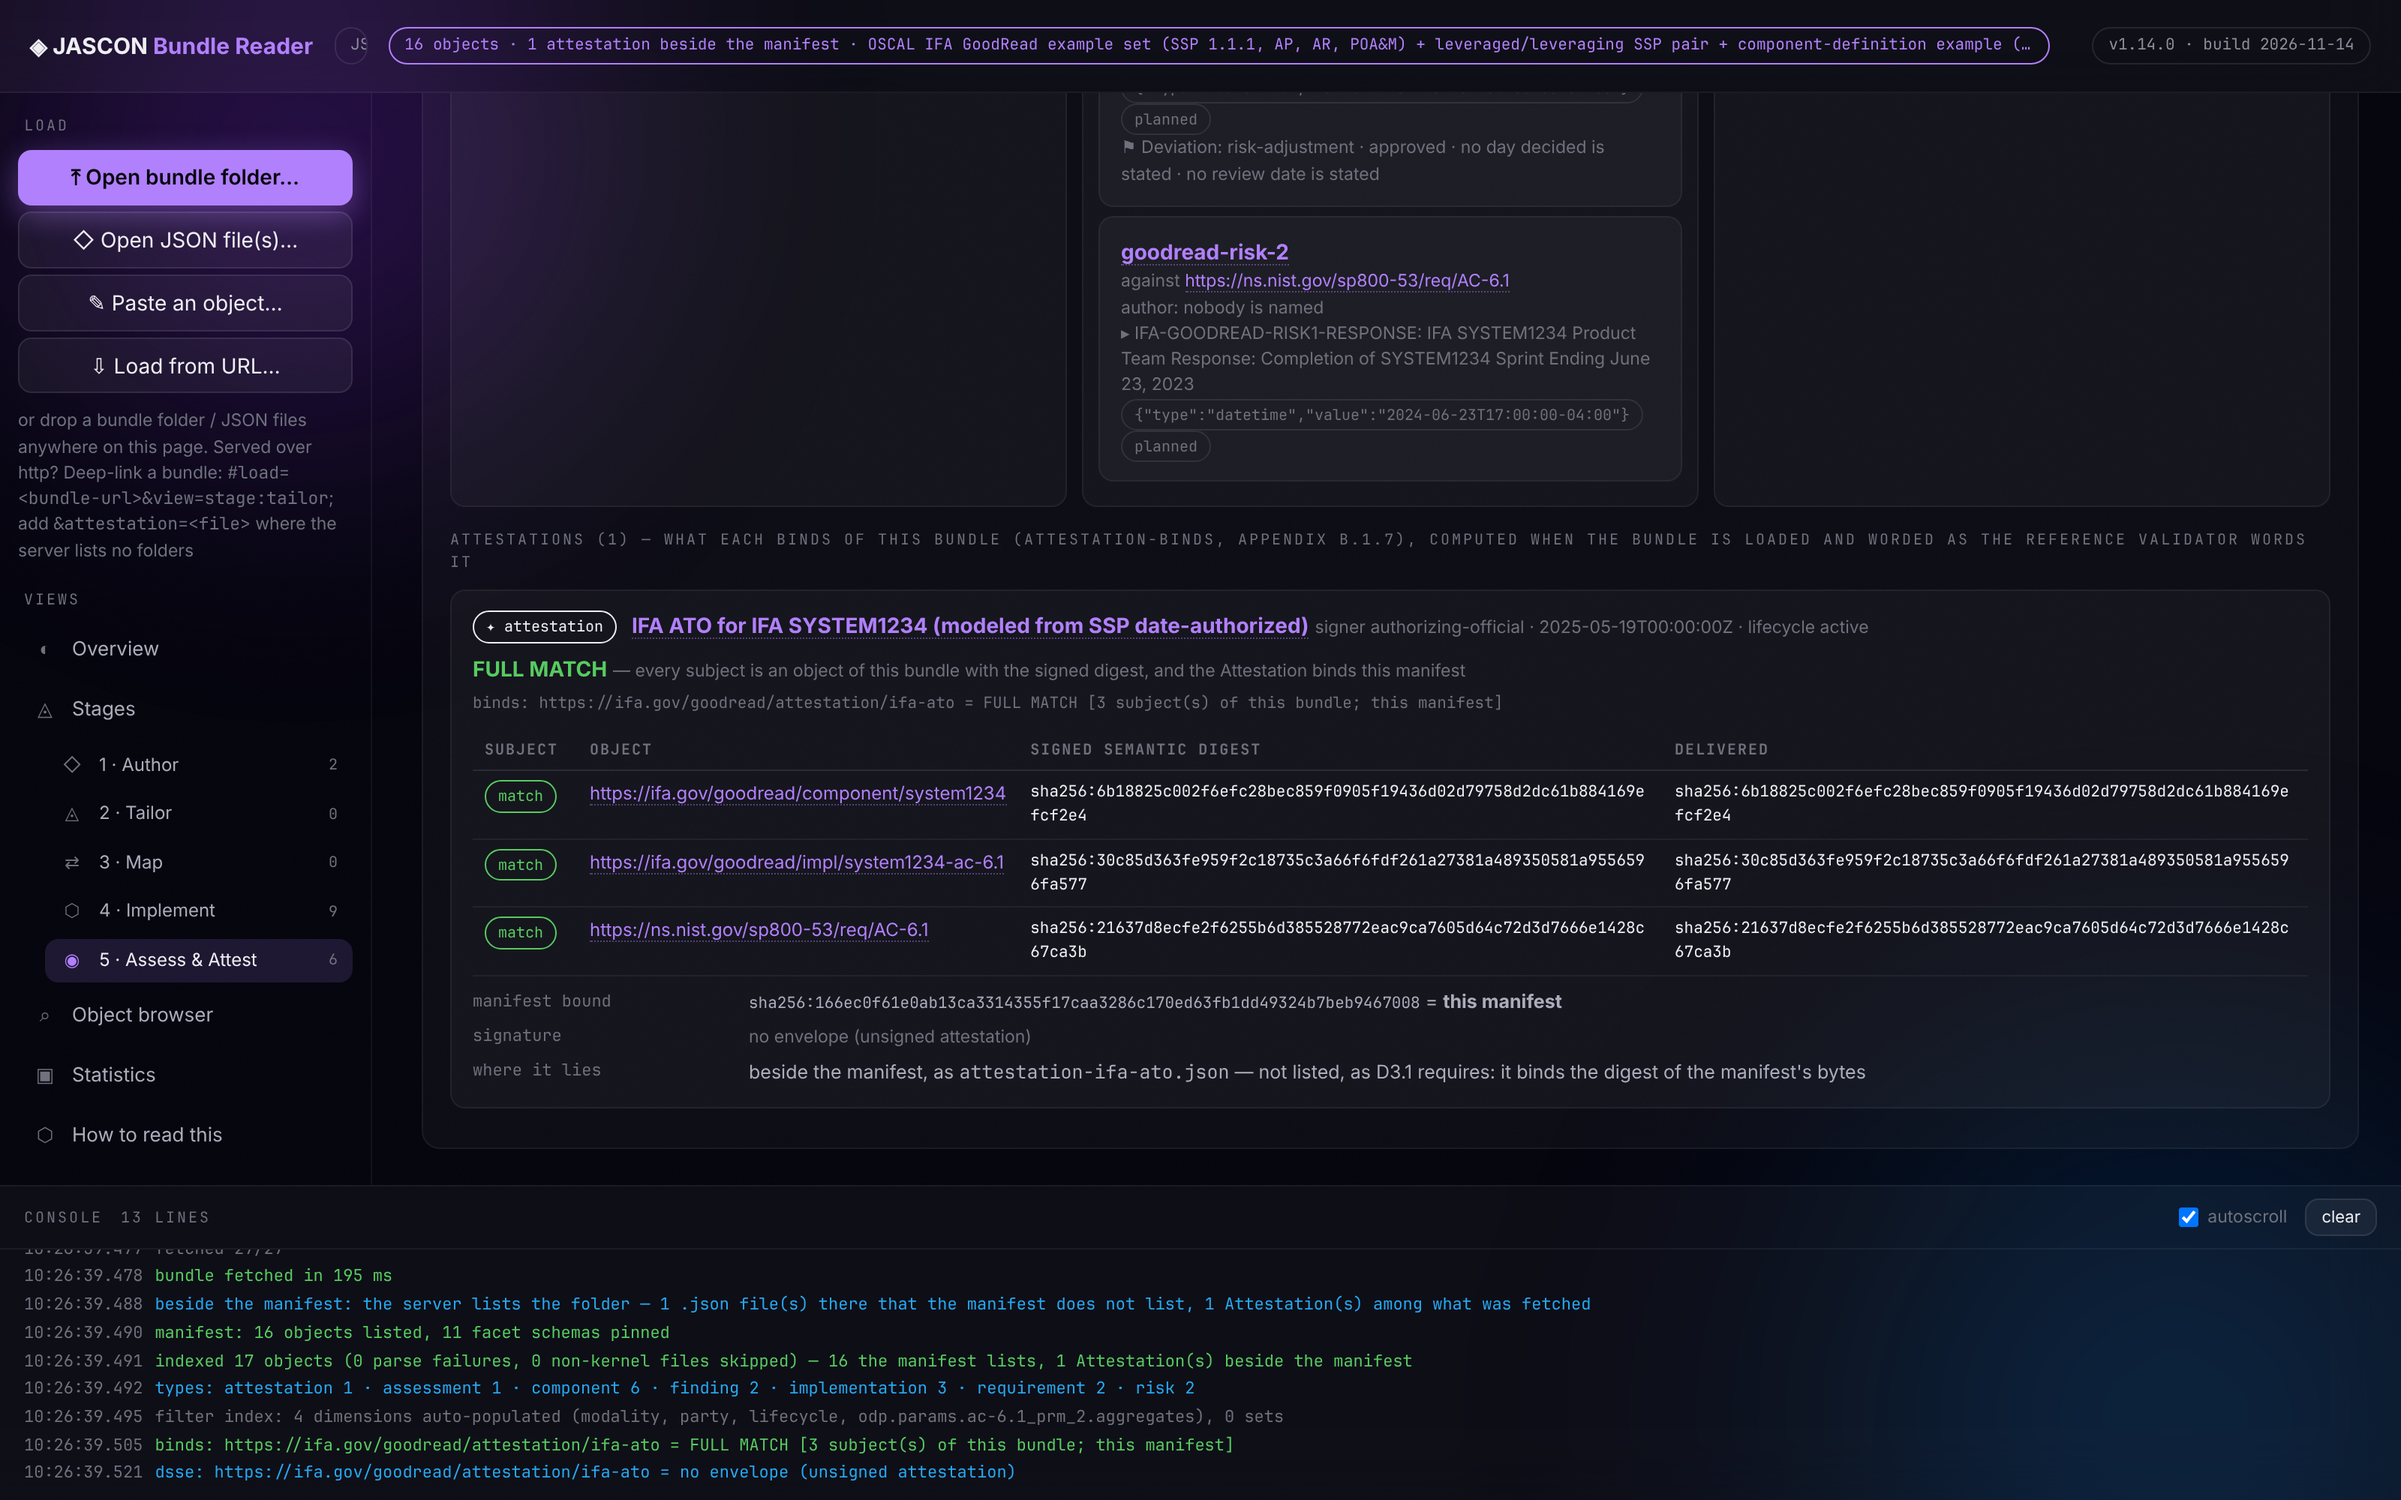
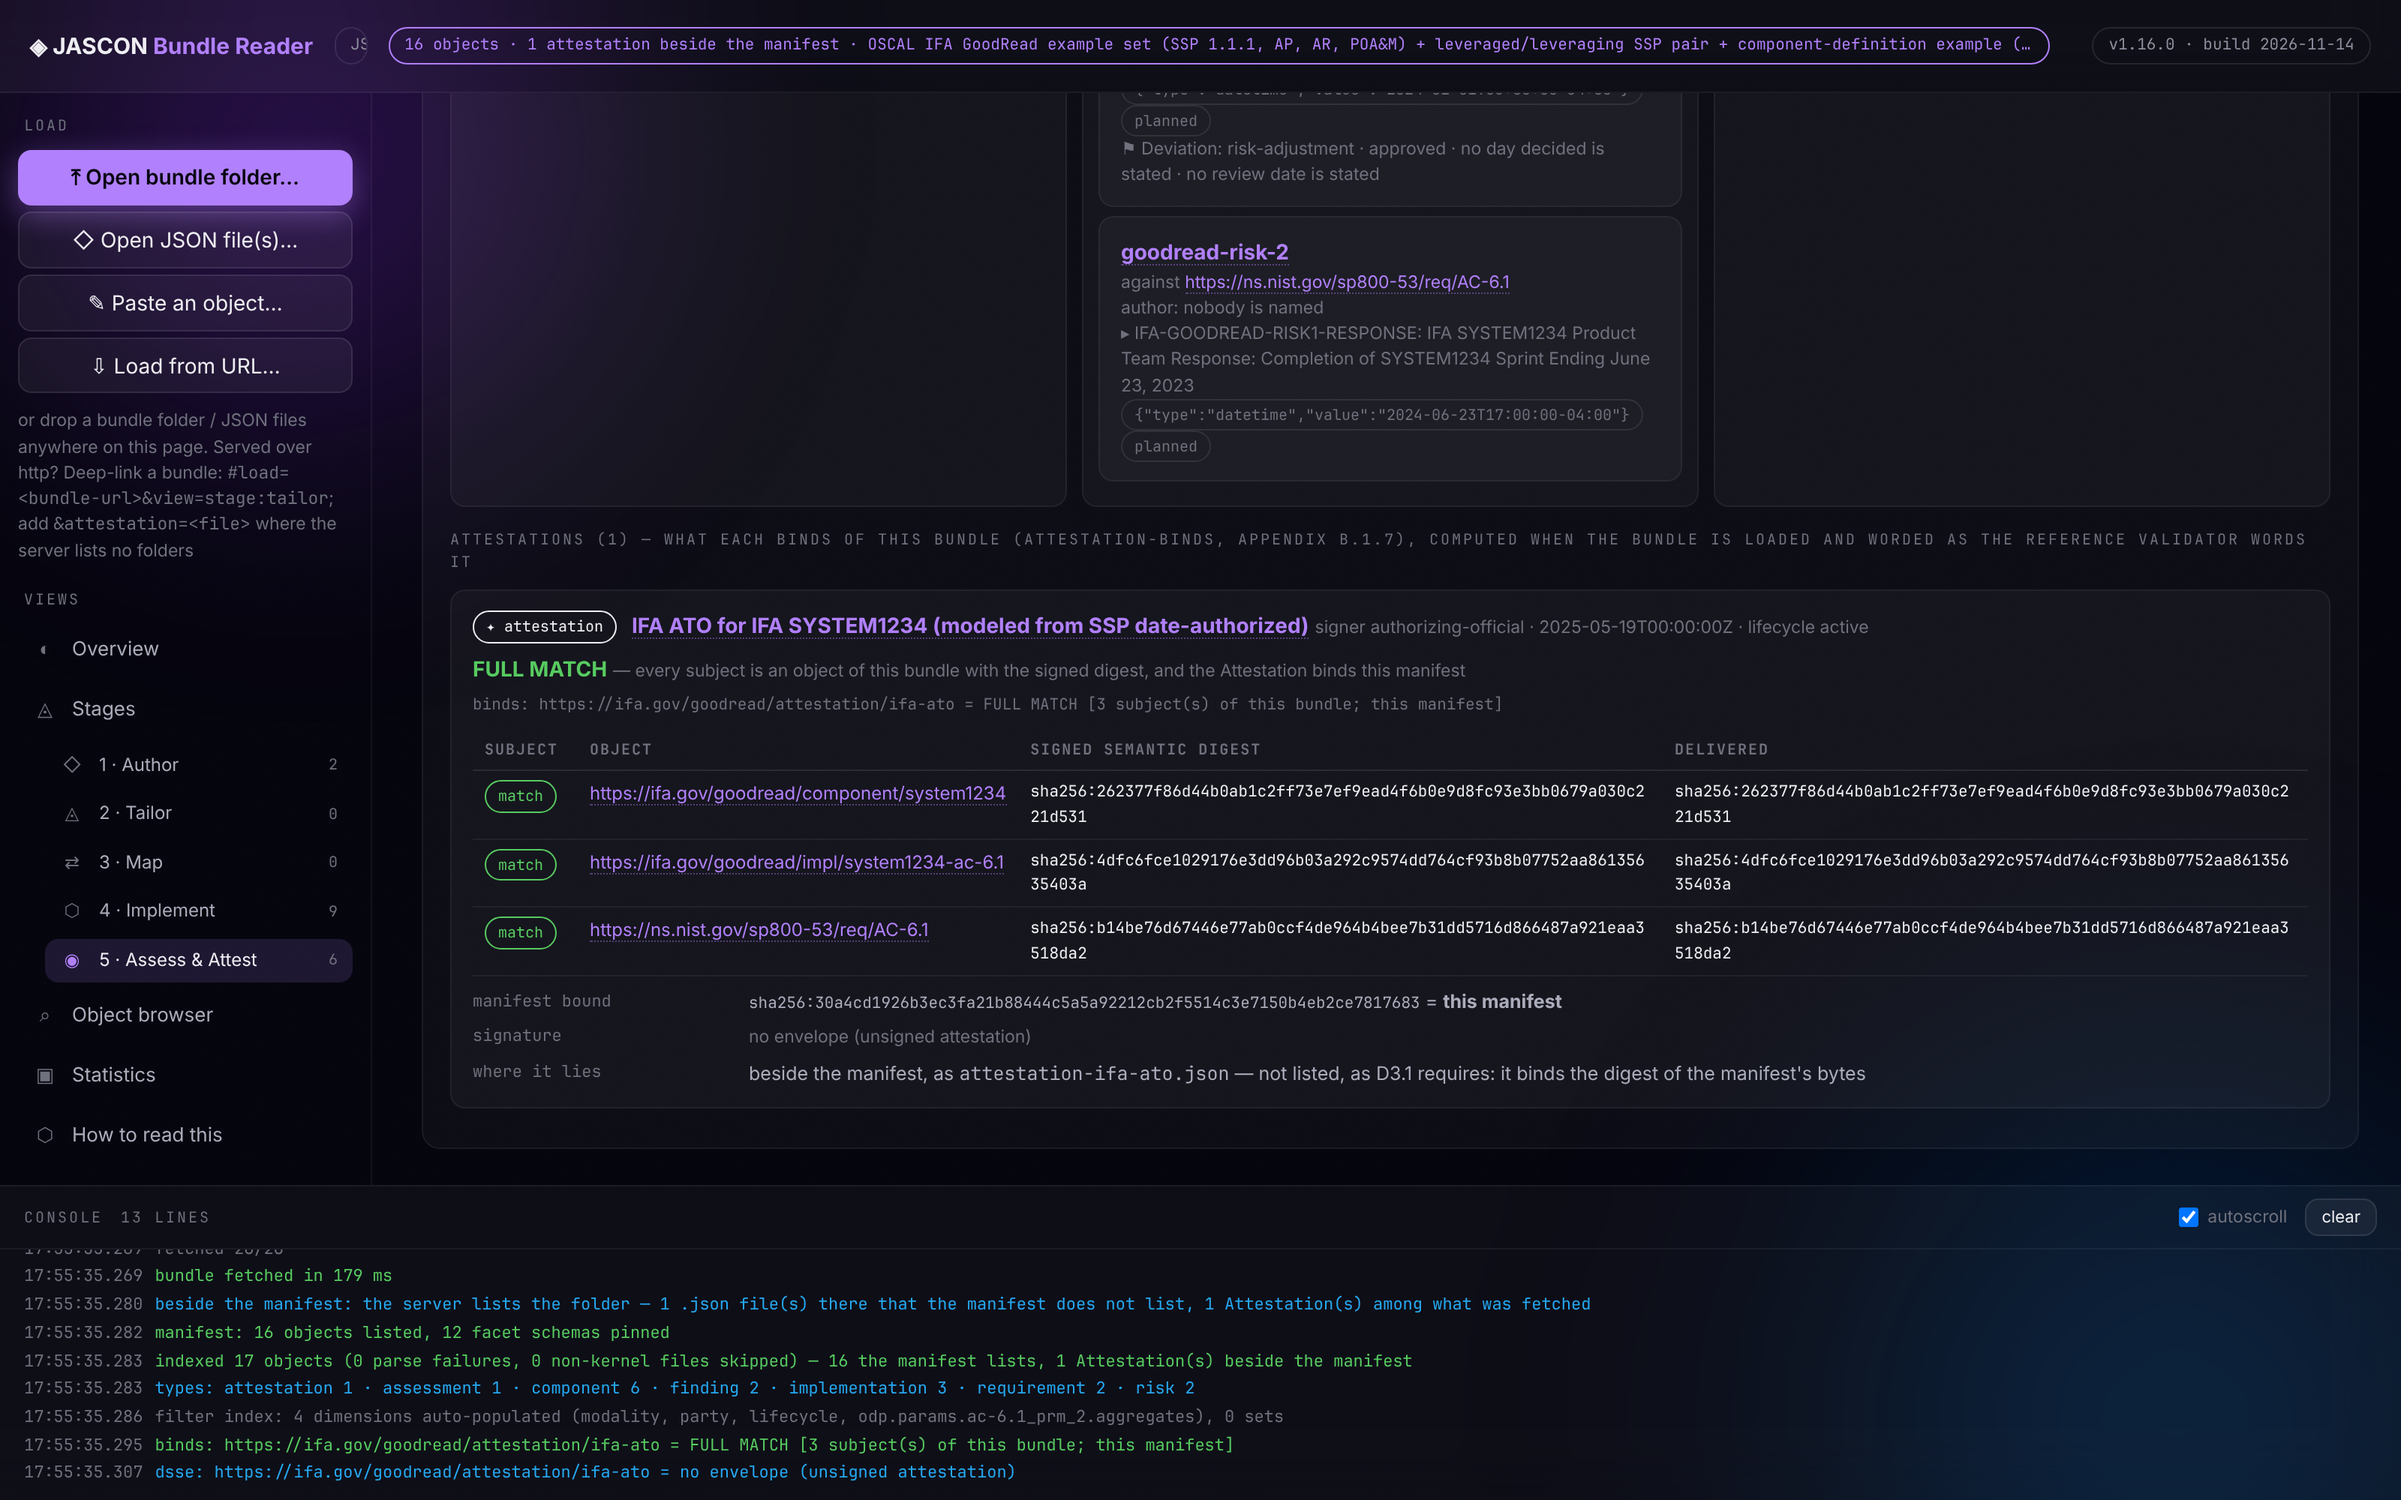
README: the ledgers of six corpora, the corpus rows after phase E, the reader's screenshot of 1.16.0
- The headline and the release note say what the ledgers read now: of
  214,365 source values on six corpora, 126,105 are carried (75,603
  copied, 50,502 by a named rule) and 88,260 are no content by a rule
  the ledger checks; none is dropped, none unaccounted, and a run with
  an unaccounted value ends with 1. They keep the limit: a ledger holds
  a rule to what it wrote, and the corpora without sources have none.
- Corpus rows: ISM 581 Sets; Grundschutz++ 999 Requirements and 288
  Sets; SP 800-53 1,196 Requirements with the 182 withdrawn controls as
  objects; CSF 185 Requirements and 41 Sets with the 91 withdrawn items
  as objects.
- Statements in the four catalogue bundles: 4,434, of which 2,516 carry
  a converter's party and 1,918 the source's (counted here from the
  bundles and the SP 800-53 report).
- The reader's export line: the page checks part of what the validator
  checks and says so. The app's SP 800-53 rules give 1,217 of the
  converter's 1,221 objects; the four baseline Sets come from importing
  the profiles.
- The screenshot is taken again: reader 1.16.0 on the IFA bundle as it
  is now (the same view, FULL MATCH, the digests of the new bundle).

Left as they are: the gate records further down (6,914 objects in
eleven bundles, 5,886 objects round-trip), which are dated measurements
of 1.0.0.

Claude-Session: https://claude.ai/code/session_01QHZSzxwqQpTkLZTWE16Bcn

diff --git a/README.md b/README.md
@@ -20,9 +20,10 @@ on a stock Windows box** (the weekend-validator claim, measured,
 crypto engines included) —
 **eleven framework and lifecycle corpora converted at 100 % declared path
 coverage** (251,591 source leaf values, every source path with a computed
-destination; where every *value* went is traced on one corpus so far,
-where 537 of 835 are carried and 298 dropped for a declared reason —
-backlog #41 — including NIST
+destination; where every *value* went is traced by a ledger on six of
+them: of 214,365 source values, 126,105 are carried and 88,260 are no
+content by a rule the ledger checks, none is dropped and none
+unaccounted — including NIST
 SP 800-53 Rev 5, its 800-53B baselines, and CSF 2.0), a **bidirectional
 OSCAL 1.2.2 export** that round-trips 5,886/5,886 objects to semantic-digest
 equality against the official NIST schema, and a zero-dependency
@@ -48,7 +49,7 @@ semantic digest of each of its three subjects and the digest of the
 manifest's bytes, and says what the reference validator says: FULL MATCH.
 The Attestation is unsigned (the converter models it from the
 authorization date of the SSP), and the page says that too; it takes no
-key and has no word for a signature that holds. (Reader 1.14.0,
+key and has no word for a signature that holds. (Reader 1.16.0,
 2026-11-14, loaded from `python -m http.server`, which lists the folder.
 The bundle's manifest lists 16 objects. The stage names Risk in its
 heading and lists none; the two Risk objects are in the object browser —
@@ -114,8 +115,9 @@ backlog #71.)*
 >   That party is the converter's default and not a value of the source,
 >   its coverage report says so, and `--obligated-party URI` writes
 >   another; the app's import presets show the default and take another.
->   Of the 4,173 statements in the four shipped catalogue bundles, 2,255
->   carry a converter's party and 1,918 what the source states.
+>   Of the 4,434 statements in the four shipped catalogue bundles, 2,516
+>   carry a converter's party and 1,918 what the source states (counted
+>   again on 2026-11-14, after every withdrawn item became an object).
 > - **The shipped conversions are reproducible** (2026-11-14): the
 >   workflow fetches each source at its pinned tag or commit, converts
 >   again and fails when a shipped bundle or its report differs from
@@ -273,11 +275,20 @@ backlog #71.)*
 > - **Reported, not smoothed over:** OSCAL's risk data has no owner, no
 >   single level and no acceptance date, so the first Risk corpus cannot
 >   leave the `identified` state; and the coverage reports count source
->   *paths*, not values that arrive. On the IFA corpus a ledger follows
->   every source value: of 835, 442 are copied, 95 transformed by a named
->   rule and 298 dropped for a declared reason, none unaccounted. That is
->   not "lossless", and the other ten corpora have no ledger (backlog
->   #41). A workflow step reproduces the IFA conversion from its pinned
+>   *paths*, not values that arrive. Since 2026-11-14 a ledger follows
+>   every source value on six corpora (IFA, ISM, Grundschutz++, CSF,
+>   SP 800-53, CR26): of 214,365 values, 75,603 are copied, 50,502 made
+>   by a named rule that is applied again and compared, and 88,260 are
+>   no content by a rule the ledger checks (a name that only selects a
+>   field, a namespace, an id that can be rebuilt exactly, a back-matter
+>   resource nothing refers to). None is dropped and none unaccounted,
+>   and a converter run with an unaccounted value ends with 1. The first
+>   ledgers had found values that were lost behind path maps of 100 %;
+>   the author's rule of that day is "real content is never dropped",
+>   and each loss is carried now. A ledger holds a rule to what it wrote,
+>   not to whether the rule is right. The corpora whose sources are not
+>   in the repository have no ledger (backlog #41, closed for the six).
+>   The workflow reproduces the six conversions from their pinned
 >   sources on every change.
 > - **Licences:** the repository is Apache-2.0; the converted corpora were
 >   checked against their publishers' terms and six bundles were removed
@@ -478,8 +489,8 @@ The census corpora (gate 1 — the evidence base the architecture was derived fr
 
 | Corpus | Source | Emitted | Coverage |
 |---|---|---|---|
-| [AU.ISM](converted_examples/AU.ISM/ism-coverage-report.md) | ACSC ISM, OSCAL 1.1.2 catalog, 1,150 controls | 1,150 Requirements · 561 Sets (P10 fix pass recovered 239 taxonomy sets a slug collision had silently merged) | 36,161 / 36,161 leaf values |
-| [DE.BSI](converted_examples/DE.BSI/bsi-coverage-report.md) | Grundschutz++ v2026-07-16, OSCAL 1.1.3 (MS-TLS dropped by decision — defects reported to BSI) | 651 Requirements carrying 999 statements · 221 params with label/default · 162 Sets | 49,431 / 49,431 |
+| [AU.ISM](converted_examples/AU.ISM/ism-coverage-report.md) | ACSC ISM, OSCAL 1.1.2 catalog, 1,150 controls | 1,150 Requirements · 581 Sets (every group of the source is a Set since 2026-11-14; P10 fix pass recovered 239 taxonomy sets a slug collision had silently merged) | 36,161 / 36,161 leaf values |
+| [DE.BSI](converted_examples/DE.BSI/bsi-coverage-report.md) | Grundschutz++ v2026-07-16, OSCAL 1.1.3 (MS-TLS dropped by decision — defects reported to BSI) | 999 Requirements, one for every control at every depth (since 2026-11-14; until then a nested control was a statement of its parent, and its links were lost) · 221 params with label/default · 288 Sets (159 groups, 126 groupings of a control with the controls nested in it, 2 baselines, the root) | 49,431 / 49,431 |
 | † [FedRAMP-CR26](converted_examples/FedRAMP-CR26/cr26-coverage-report.md) | CR26 bespoke JSON, v2026.11.02.01 (measured again on 2026-11-14; the census of July was of v2026.07.14.01: 292 Requirements · 373 Mappings · 4 Tailorings, 7,294 / 7,294) | 291 Requirements · 652 Mappings · 92 Sets · 5 Tailorings | 7,532 / 7,532 |
 
 Validation corpora (converted 2026-07-21; the model held without kernel
@@ -501,8 +512,8 @@ changes forced):
 
 | Corpus | Source | Emitted | Coverage |
 |---|---|---|---|
-| [US.SP800-53](converted_examples/US.SP800-53/sp800-53-coverage-report.md) | NIST SP 800-53 Rev 5.2.0 catalog + four 800-53B baseline profiles, OSCAL 1.2.2 | 1,014 Requirements (1,600 statement-scoped ODP params, SP 800-53A layer as facet) · 25 Sets (20 families + 4 baselines + root); 182 withdrawn tombstones inverted onto successor `replaces[]` | 115,680 / 115,680 |
-| [US.CSF](converted_examples/US.CSF/csf-coverage-report.md) | NIST CSF 2.0, OSCAL 1.2.2 | 106 Requirements · 29 Sets (functions → categories → subcategories, 3-level nesting); 91 withdrawn (12 categories + 79 subcategories) inverted | 4,726 / 4,726 |
+| [US.SP800-53](converted_examples/US.SP800-53/sp800-53-coverage-report.md) | NIST SP 800-53 Rev 5.2.0 catalog + four 800-53B baseline profiles, OSCAL 1.2.2 | 1,196 Requirements (1,600 statement-scoped ODP params, SP 800-53A layer as facet with its 3,707 assessment-for links) · 25 Sets (20 families + 4 baselines + root); the 182 withdrawn controls are Requirements with lifecycle `withdrawn` since 2026-11-14, and the 180 that name a successor stand in its `replaces[]` | 115,680 / 115,680 |
+| [US.CSF](converted_examples/US.CSF/csf-coverage-report.md) | NIST CSF 2.0, OSCAL 1.2.2 | 185 Requirements · 41 Sets (functions → categories → subcategories, 3-level nesting); the 91 withdrawn items (12 categories + 79 subcategories) are objects with lifecycle `withdrawn` since 2026-11-14, and the 87 that name a successor stand in its `replaces[]` | 4,726 / 4,726 |
 | [US.IFA-GoodRead](converted_examples/US.IFA-GoodRead/ifa-coverage-report.md) | OSCAL IFA GoodRead example set (SSP + AP + AR + POA&M) + leveraged/leveraging SSP pair + component-definition | 6 Components · 3 Implementations (D5 `inherited-from` with basis-ref) · 1 Assessment · 2 Findings (one approved risk-adjustment Deviation) · 2 Risks · 1 Attestation (the ATO) · 2 carried Requirements | 835 / 835 |
 
 Each conversion ships a computed coverage report that declares every rule with
@@ -552,7 +563,10 @@ the five stages of the compliance graph *functional*, not diagrammatic:
   real Assessment and Finding objects.
 - **Export a real bundle** — the workspace leaves as a ZIP with a
   content-manifest carrying both digests per object: re-loadable here,
-  verifiable by `validate_core.py`. Authored objects persist across reloads.
+  verifiable by `validate_core.py`. The reader checks part of what the
+  validator checks (references that must resolve in the bundle, facet and
+  method keys, Attestations) and says so; it runs no kernel schema.
+  Authored objects persist across reloads.
 
 ![Object browser on the Grundschutz++ corpus (content: BSI, CC BY-SA 4.0): fifteen auto-populated filter dimensions — modality, threats, target-object categories, tags, required documentation, C-I-A-Auth objectives, effort, class, security level — every vocabulary the corpus actually carries](docs/img/reader-browser-facets.png)
 
@@ -598,7 +612,8 @@ you switch on one of the two places that ask a language model (below).
 - **Import** reads an OSCAL catalog or profile; everything after it works on
   JASCON. The BSI Grundschutz++ rules reproduce the shipped `DE.BSI` bundle
   object for object, by semantic digest; the NIST SP 800-53 rules give what
-  `convert_nist.py` gives on the same source file; the CIS Benchmark rules
+  `convert_nist.py` gives on the same source file (1,217 of its 1,221
+  objects: the four baseline Sets come from importing the profiles); the CIS Benchmark rules
   give what `convert_cis_benchmark.py` gives, shown on a catalog of the same
   shape (the repository carries no CIS Benchmark).
 - **Checks** writes machine checks for technical rules (the Check type
